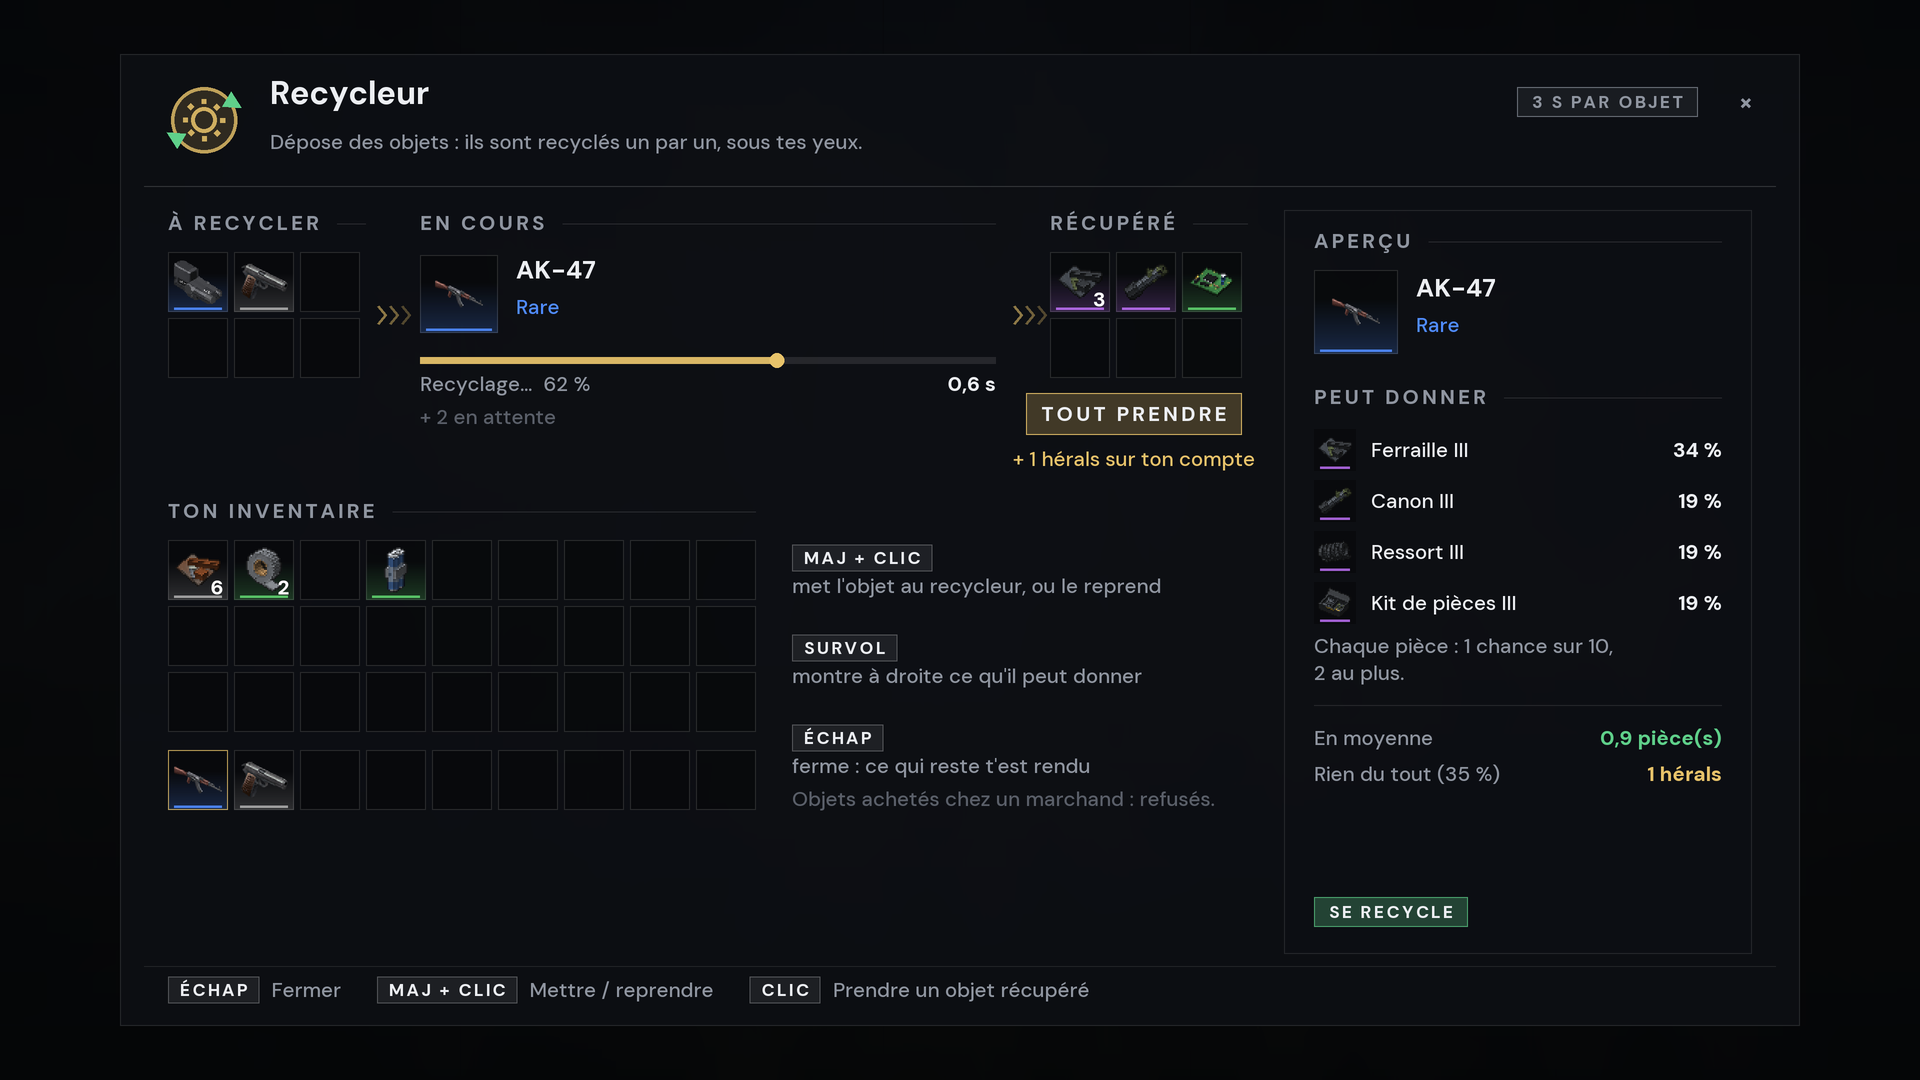
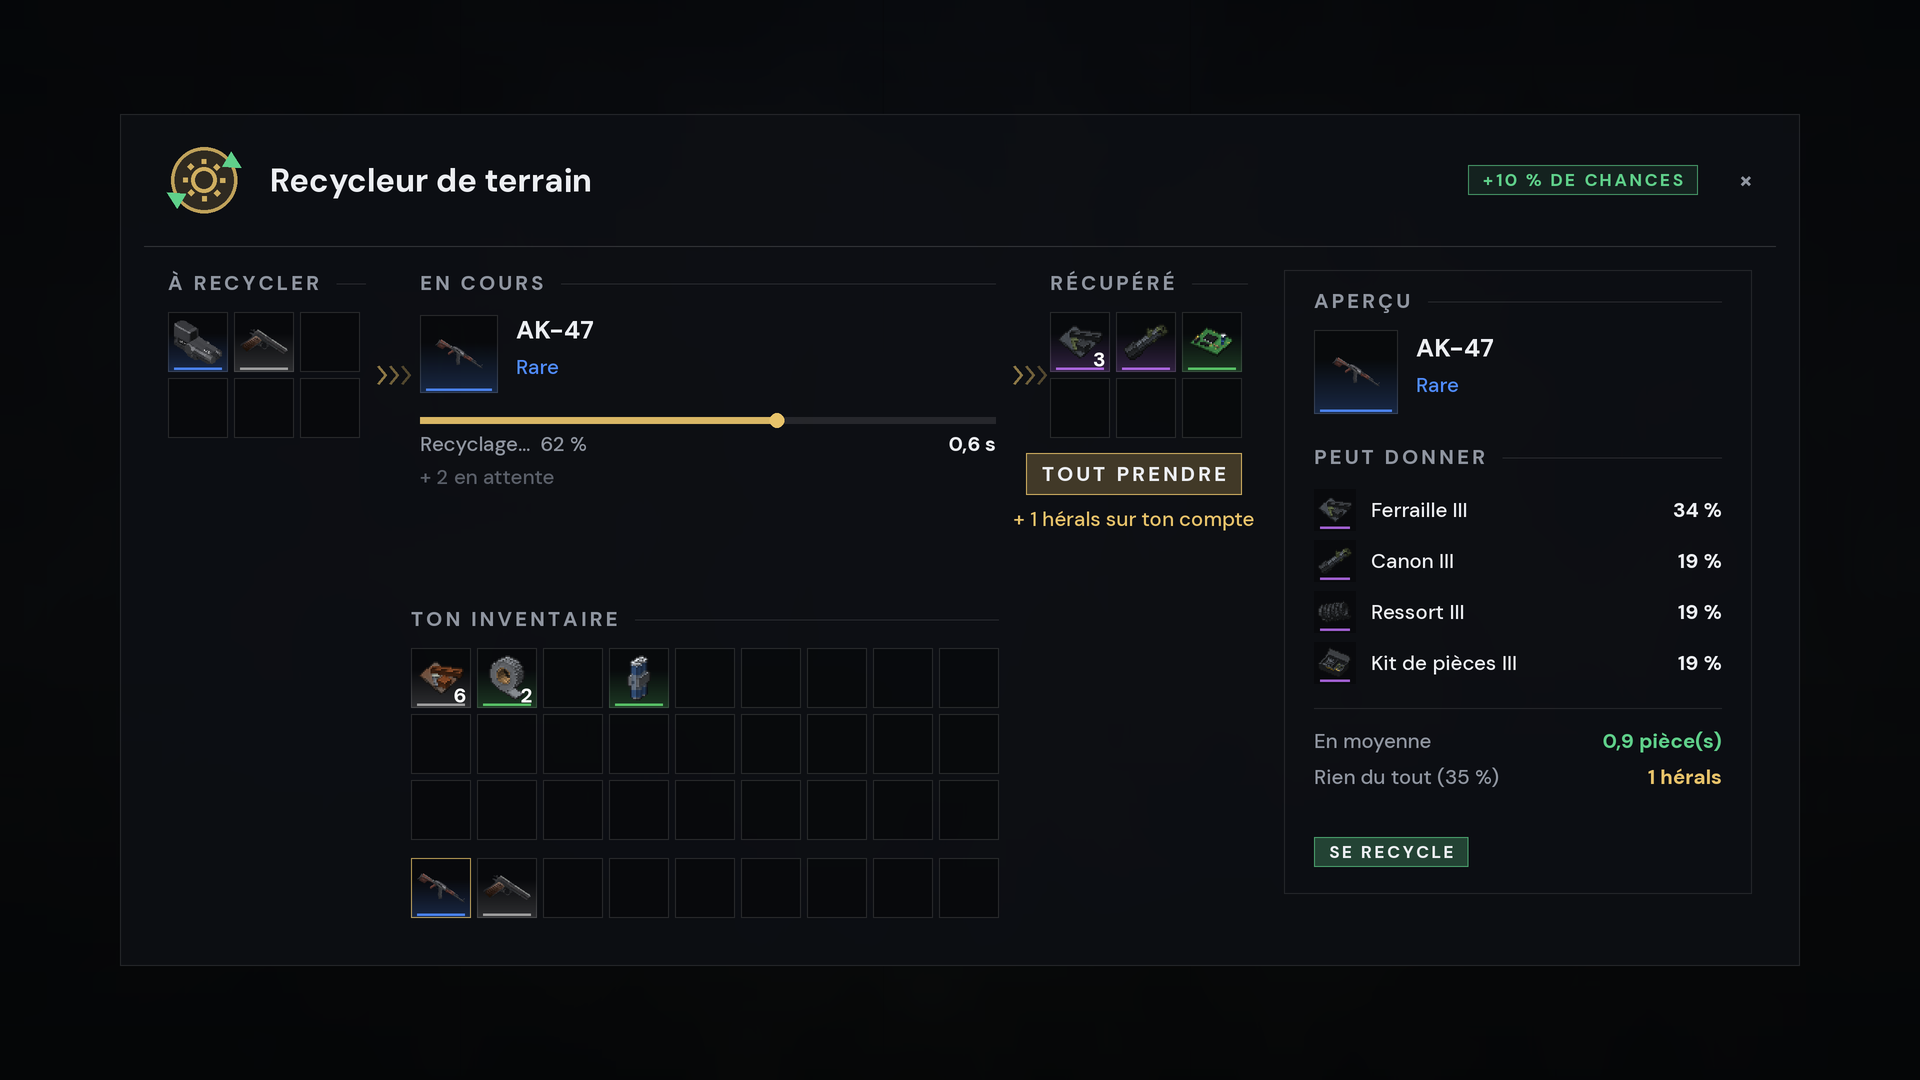
Maquettes du recycleur à jour (écran sans textes d'aide, bandeau rouge d'un objet refusé)
outils de l'aperçu : polices DM Sans prises dans le noyau (elles y ont été rangées), mêmes mesures que l'écran du jeu
(panneau 560 x 284, inventaire centré, bandeau entre la machine et l'inventaire).

Claude-Session: https://claude.ai/code/session_017zTciF6jhowAQMTd62LAuP

diff --git a/modules/pnj/outils/apercu_recycleur.py b/modules/pnj/outils/apercu_recycleur.py
@@ -21,7 +21,9 @@ RACINE = Path(__file__).resolve().parents[3]
 sys.path.insert(0, str(RACINE / "modules" / "boutique" / "outils"))
 import apercu_boutique as ab  # noqa: E402
 
-ab.FONTS = RACINE / "modules/pnj/src/client/resources/assets/heraliz_quetes/font"
+# polices DM Sans : rangées depuis dans le noyau (heraliz_noyau/font) ; ancienne place gardée si elle revient
+ab.FONTS = next(p for p in (RACINE / "modules/pnj/src/client/resources/assets/heraliz_quetes/font",
+                            RACINE / "modules/noyau/src/client/resources/assets/heraliz_noyau/font") if (p / "dmsans_bold.ttf").exists())
 GW, GH, K = ab.GW, ab.GH, ab.K
 TEXT, MUTED, FAINT, OK, OR, DANGER, BLANC = 0xECEEF2, 0x8F95A0, 0x5A5F69, 0x5FD08A, 0xE8C36A, 0xFF6B6B, 0xFFFFFF
 VERRE = 0x0D0F14
@@ -35,7 +37,10 @@ CAPS_GRAS = (True, 9 / 1.302, 1.0)
 MICRO = (True, 7.5 / 1.302, 0.8)
 DEFAUTS = []
 
-PX, PY, PW, PH = 40, 18, 560, 324
+# 18/11 (retour du propriétaire : moins de texte) : plus de sous-titre, d'aide ni de pied ; inventaire centré ; 560 x 284
+PX, PY, PW, PH = 40, 38, 560, 284
+INV_X, INV_Y = 97, 178    # MenuRecycleur.INVENTAIRE_X / INVENTAIRE_Y
+BANDEAU_Y = 151           # EcranRecycleur.BANDEAU_Y
 ENTETE, M = 44, 16
 CASE = 20
 GAUCHE_L = 360           # zone machine + inventaire ; à droite le panneau d'aperçu
@@ -136,15 +141,14 @@ def chevrons(e, x, cy, c, a=150):
         e.trait([(xx, cy - 3), (xx + 2.6, cy), (xx, cy + 3)], 0.9, c, a - k * 35)
 
 
-def entete(e):
+def entete(e, carte=True):
     icone_recycleur(e, PX + M, PY + 10, OR)
     tx = PX + M + 34
-    e.texte("Recycleur", tx, PY + 9, TITRE, TEXT, quoi="titre")
-    e.texte("Dépose des objets : ils sont recyclés un par un, sous tes yeux.", tx, PY + 27, SMALL, MUTED, maxw=300, quoi="sous-titre")
-    xd = PX + PW - 34
-    w = e.largeur("3 S PAR OBJET", MICRO) + 10
-    puce(e, "3 S PAR OBJET", xd - w, PY + 16, MUTED)
-    e.c("×", PX + PW - 18, PY + 16, BOLD, MUTED)
+    e.m("Recycleur de terrain" if carte else "Recycleur", tx, PY + 22, TITRE, TEXT, maxw=300, quoi="titre")
+    if carte:
+        w = e.largeur("+10 % DE CHANCES", MICRO) + 10
+        puce(e, "+10 % DE CHANCES", PX + PW - 34 - w, PY + 22, OK)
+    e.c("×", PX + PW - 18, PY + 22, BOLD, MUTED)
     e.rect(PX + 8, PY + ENTETE, PX + PW - 8, PY + ENTETE + 1 / 3, BLANC, 40)
 
 
@@ -171,8 +175,6 @@ def machine(e, y0, en_cours):
         e.d("0,6 s", mx1, by + 9, SMALL_GRAS, TEXT)
         e.m("+ 2 en attente", mx0, by + 20, SMALL, FAINT)
     else:
-        e.c("Dépose un objet à gauche :", (mx0 + mx1) / 2, y0 + 26, SMALL, MUTED, maxw=mx1 - mx0, quoi="vide 1")
-        e.c("le recyclage démarre tout seul.", (mx0 + mx1) / 2, y0 + 36, SMALL, MUTED, maxw=mx1 - mx0, quoi="vide 2")
         e.rect(mx0, y0 + 47, mx1, y0 + 49.4, BLANC, 18)
     # sortie : ce qui est sorti, à prendre
     ox = x0 + GAUCHE_L - 66
@@ -184,8 +186,8 @@ def machine(e, y0, en_cours):
         e.c("+ 1 hérals sur ton compte", ox + 28, y0 + 81, SMALL, OR, maxw=90, quoi="hérals")
 
 
-def inventaire(e, y0, survol, cas="ak47"):
-    x0 = PX + M
+def inventaire(e, survol, cas="ak47"):
+    x0, y0 = PX + INV_X, PY + INV_Y - 12
     libelle(e, "TON INVENTAIRE", x0, y0, 9 * (CASE + 2) - 2)
     inv = [("ferraille", 6, "commun"), ("scotch", 2, "peu_commun"), None, ("batterie", 1, "peu_commun"), None, None, None, None, None,
            None, None, None, None, None, None, None, None, None,
@@ -195,22 +197,19 @@ def inventaire(e, y0, survol, cas="ak47"):
         inv[2] = ("1p87", 1, "rare")
     grille(e, x0, y0 + 12, 9, 3, inv[:27], survol=survol)
     grille(e, x0, y0 + 12 + 3 * (CASE + 2) + 4, 9, 1, inv[27:], survol=survol - 27 if survol >= 27 else -1)
-    # aide à droite de l'inventaire
-    ax = x0 + 9 * (CASE + 2) + 10
-    aw = PX + M + GAUCHE_L - ax
-    lignes = [("MAJ + CLIC", "met l'objet au recycleur, ou le reprend"),
-              ("SURVOL", "montre à droite ce qu'il peut donner"),
-              ("ÉCHAP", "ferme : ce qui reste t'est rendu")]
-    yy = y0 + 18
-    for touche, aide in lignes:
-        w = e.largeur(touche, MICRO) + 8
-        e.rect(ax, yy - 4.5, ax + w, yy + 4.5, BLANC, 18)
-        e.border(ax, yy - 4.5, w, 9, BLANC, 60)
-        e.c(touche, ax + w / 2, yy, MICRO, TEXT)
-        for i, l in enumerate(e.lignes(aide, SMALL, aw)):
-            e.texte(l, ax, yy + 7 + i * 9, SMALL, MUTED, maxw=aw, quoi="aide")
-        yy += 30
-    e.texte("Objets achetés chez un marchand : refusés.", ax, y0 + 12 + 4 * (CASE + 2) - 4, SMALL, FAINT, maxw=aw, quoi="note")
+
+
+def bandeau(e, texte):
+    """Bandeau rouge d'un objet refusé (EcranRecycleur.dessinerBandeau) : entre la machine et l'inventaire."""
+    w = e.largeur(texte, SMALL) + 32
+    x0, cy, h = PX + M + GAUCHE_L / 2 - w / 2, PY + BANDEAU_Y, 17
+    e.rect(x0, cy - h / 2, x0 + w, cy + h / 2, 0x120C0E, 235)
+    e.rect(x0, cy - h / 2, x0 + w, cy + h / 2, DANGER, 30)
+    e.border(x0, cy - h / 2, w, h, DANGER, 150)
+    e.rect(x0, cy - h / 2, x0 + 2, cy + h / 2, DANGER, 255)
+    e.disc(x0 + 12, cy, 4.6, DANGER, 240)
+    e.c("!", x0 + 12, cy, SMALL_GRAS, BLANC)
+    e.m(texte, x0 + 22, cy, SMALL, ab.mix(DANGER, BLANC, 0.62), quoi="bandeau")
 
 
 def apercu(e, y0, h, cas):
@@ -233,10 +232,7 @@ def apercu(e, y0, h, cas):
             e.m(lib, xi + 19, y + 6, SMALL, TEXT, maxw=w - 70, quoi="composant")
             e.d("%d %%" % round((1 - 0.9 ** n) * 100), x + w - 10, y + 6, SMALL_GRAS, TEXT)
             y += 17
-        e.texte("Chaque pièce : 1 chance sur 10,", xi, y + 1, SMALL, MUTED, maxw=w - 20, quoi="chance")
-        e.texte("2 au plus.", xi, y + 10, SMALL, MUTED, maxw=w - 20, quoi="chance")
-        y += 9
-        y += 14
+        y += 4
         e.rect(xi, y, x + w - 10, y + 1 / 3, BLANC, 26)
         y += 7
         e.m("En moyenne", xi, y + 4, SMALL, MUTED)
@@ -245,53 +241,40 @@ def apercu(e, y0, h, cas):
         e.d("1 hérals", x + w - 10, y + 16, SMALL_GRAS, OR)
         puce(e, "SE RECYCLE", xi, y0 + h - 14, OK, plein=True)
     else:
-        case(e, xi, y0 + 18, "1p87", None, "rare", s=28)
-        e.texte("Viseur 1P87", xi + 34, y0 + 21, BOLD, TEXT, maxw=w - 54, quoi="nom aperçu")
+        # arme chargée survolée : ce qu'elle peut donner, puis ce qu'il faut vider (état « À vider »)
+        case(e, xi, y0 + 18, "ak47", None, "rare", s=28)
+        e.texte("AK-47", xi + 34, y0 + 21, BOLD, TEXT, maxw=w - 54, quoi="nom aperçu")
         e.texte("Rare", xi + 34, y0 + 34, SMALL, RARETES["rare"])
         y = y0 + 58
         libelle(e, "PEUT DONNER", xi, y, w - 20)
         y += 14
-        for nom, lib, n, r in (("circuit_imprime", "Circuit imprimé", 2, "peu_commun"), ("batterie", "Batterie", 2, "peu_commun")):
+        for nom, lib, n, r in (("ferraille_iii", "Ferraille III", 4, "epique"), ("canon_iii", "Canon III", 2, "epique"),
+                               ("ressort_iii", "Ressort III", 2, "epique"), ("kit_pieces_iii", "Kit de pièces III", 2, "epique")):
             e.rect(xi, y - 1, xi + 14, y + 13, 0x000000, 80)
             e.rect(xi + 2, y + 11.6, xi + 12, y + 12.4, RARETES[r], 220)
             icone(e, nom, xi + 1, y, 12)
             e.m(lib, xi + 19, y + 6, SMALL, TEXT, maxw=w - 70, quoi="composant")
             e.d("%d %%" % round((1 - 0.9 ** n) * 100), x + w - 10, y + 6, SMALL_GRAS, TEXT)
             y += 17
-        e.texte("Chaque pièce : 1 chance sur 10,", xi, y + 1, SMALL, MUTED, maxw=w - 20, quoi="chance")
-        e.texte("2 au plus.", xi, y + 10, SMALL, MUTED, maxw=w - 20, quoi="chance")
-        y += 9
-        y += 14
+        y += 4
         e.rect(xi, y, x + w - 10, y + 1 / 3, BLANC, 26)
         y += 7
-        for i, l in enumerate(e.lignes("Tu l'as acheté chez Jack : le recycleur le refuse (il rapporterait plus que la revente).", SMALL, w - 20)):
-            e.texte(l, xi, y + i * 9, SMALL, DANGER, maxw=w - 20, quoi="refus")
-        puce(e, "REFUSÉ", xi, y0 + h - 14, DANGER, plein=True)
+        for i, l in enumerate(e.lignes("Arme chargée : décharge-la d'abord, ses balles seraient perdues.", SMALL, w - 20)):
+            e.texte(l, xi, y + i * 9, SMALL, MUTED, maxw=w - 20, quoi="refus")
+        puce(e, "À VIDER", xi, y0 + h - 14, 0xE8B34A, plein=True)
 
 
-def pied(e):
-    y = PY + PH - 12
-    e.rect(PX + 8, y - 8, PX + PW - 8, y - 8 + 1 / 3, BLANC, 22)
-    x = PX + M
-    for touche, aide in (("ÉCHAP", "Fermer"), ("MAJ + CLIC", "Mettre / reprendre"), ("CLIC", "Prendre un objet récupéré")):
-        w = e.largeur(touche, MICRO) + 8
-        e.rect(x, y - 4.5, x + w, y + 4.5, BLANC, 18)
-        e.border(x, y - 4.5, w, 9, BLANC, 60)
-        e.c(touche, x + w / 2, y, MICRO, TEXT)
-        x += w + 4
-        x += e.m(aide, x, y, SMALL, MUTED) + 12
-
-
-def ecran(sortie, en_cours=True, cas="ak47"):
+def ecran(sortie, en_cours=True, cas="ak47", texte_bandeau=None):
     e = ab.Ecran(ab.fond())
     e.rect(0, 0, GW, GH, 0x050608, 130)
     verre(e, PX, PY, PW, PH)
     entete(e)
     y0 = PY + ENTETE + 10
     machine(e, y0, en_cours)
-    inventaire(e, y0 + 96, 27 if cas == "ak47" else 2, cas)
+    inventaire(e, 27 if cas in ("ak47", "arme_chargee") else 2, cas)
     apercu(e, y0, PH - ENTETE - 34, cas)
-    pied(e)
+    if texte_bandeau:
+        bandeau(e, texte_bandeau)
     DEFAUTS.extend(e.defauts)
     e.defauts = []
     e.sauver(sortie)
@@ -303,7 +286,8 @@ def main():
     ab.POL = ab.Polices()
     ab.LANGUE = "fr_fr"
     ecran(dossier / "recycleur_en_cours.png")
-    ecran(dossier / "recycleur_vide_refus.png", en_cours=False, cas="1p87")
+    ecran(dossier / "recycleur_vide_refus.png", en_cours=False, cas="arme_chargee",
+          texte_bandeau="Arme chargée : décharge-la d'abord.")
     if DEFAUTS:
         print("\n".join(DEFAUTS))
         sys.exit(1)
